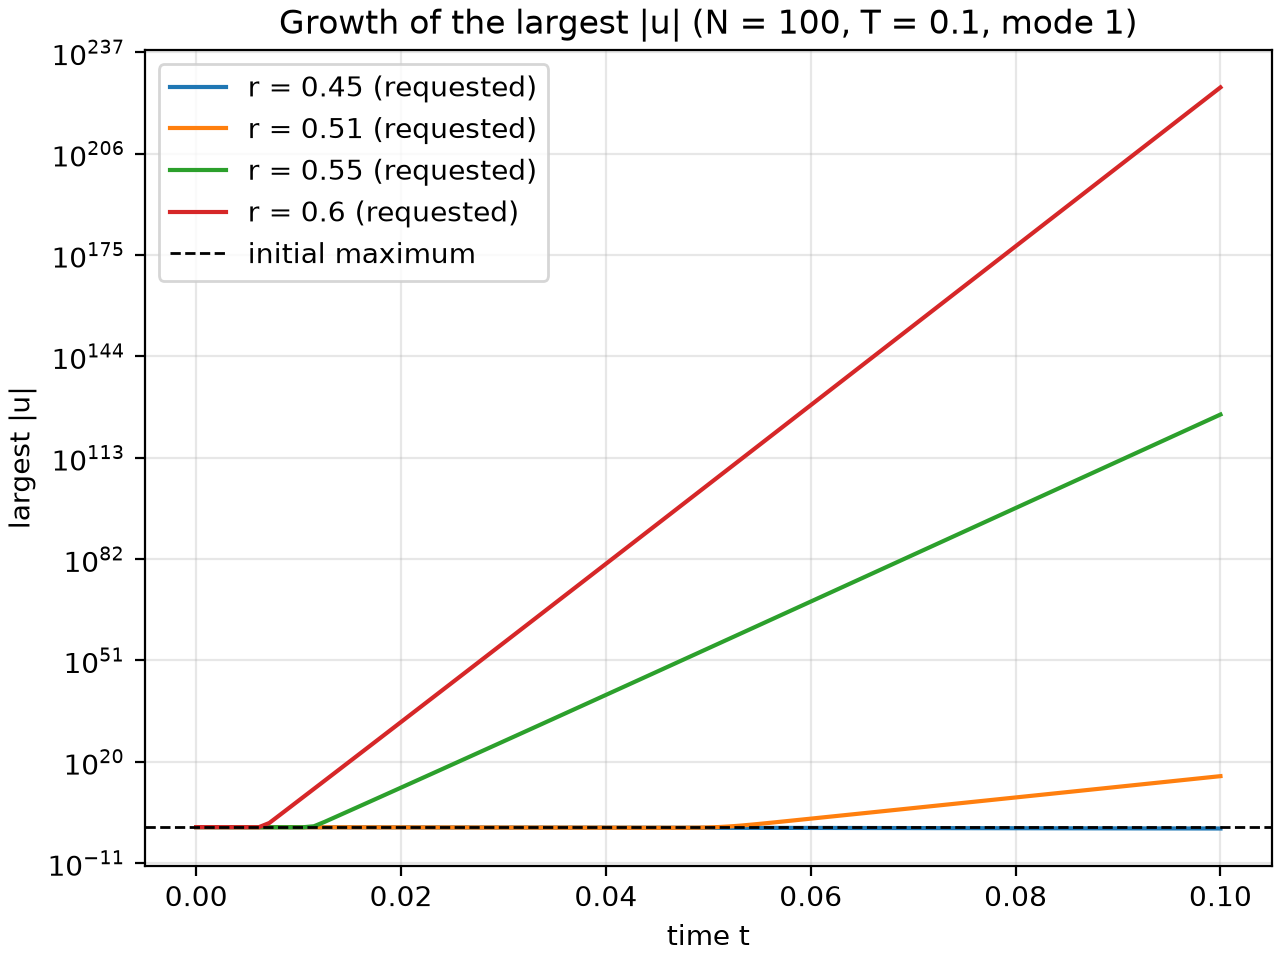
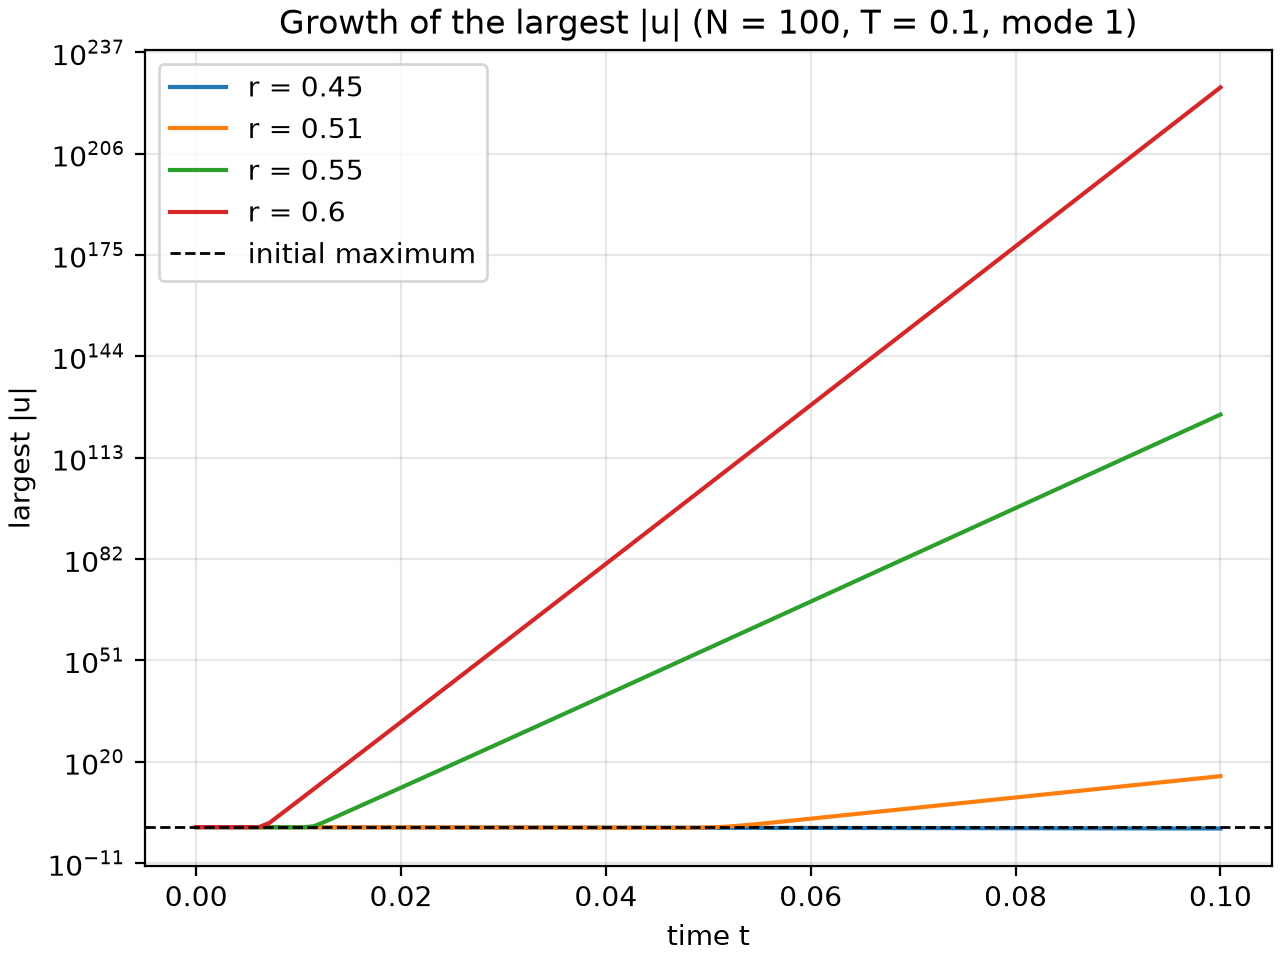
added instability plot and updated README

Changed region(s): [[0.2812, 0.0625, 0.4375, 0.25], [0.375, 0.2812, 0.4062, 0.3125]]

diff --git a/tests/test_instability_script.py b/tests/test_instability_script.py
@@ -107,9 +107,9 @@ class CheckBehaviourTest(unittest.TestCase):
 
 class LegendLabelTest(unittest.TestCase):
     def test_labels(self):
-        self.assertEqual(inst.legend_label(0.45), "r = 0.45 (requested)")
-        self.assertEqual(inst.legend_label(0.6), "r = 0.6 (requested)")
-        self.assertEqual(inst.legend_label(0.5), "r = 0.5 (requested)")
+        self.assertEqual(inst.legend_label(0.45), "r = 0.45")
+        self.assertEqual(inst.legend_label(0.6), "r = 0.6")
+        self.assertEqual(inst.legend_label(0.5), "r = 0.5")
 
 
 if __name__ == "__main__":

diff --git a/scripts/instability.py b/scripts/instability.py
@@ -51,7 +51,7 @@ def check_behaviour(r_req, peaks):
 
 
 def legend_label(r_req):
-    return f"r = {r_req:g} (requested)"
+    return f"r = {r_req:g}"
 
 
 # running the solver and drawing

diff --git a/README.md b/README.md
@@ -117,17 +117,32 @@ The script stops with a message and a non-zero exit code if the solver output do
 
 The `r` actually used is slightly below the requested one, because the step is shrunk so the run ends exactly at `T`. A request of 0.51 runs at about 0.5099, which is still unstable.
 
-Final largest `|u|` at `t = T`, from the run that produced the figure:
+### Why it goes unstable
+Any profile can be split into sine waves of different wavelengths, and the explicit scheme multiplies each wave by a fixed growth factor `g` at every step. A wave with `|g| < 1` shrinks and one with `|g| > 1` grows exponentially. The shortest wave the grid can hold, a sawtooth that alternates sign at every grid point, has `g = 1 - 4r`. Smoother waves have `g` closer to 1, so the sawtooth is the first to fail. It satisfies `|g| <= 1` exactly when `r <= 1/2`, which is the stability limit.
 
-| Requested r | Final largest `|u|` | My prediction |
-|---|---|---|
-| 0.45 | 0.372656 | _to fill in_ |
-| 0.51 | 3.82119e+15 | _to fill in_ |
-| 0.55 | 1.51741e+126 | _to fill in_ |
-| 0.6 | 1.71643e+226 | _to fill in_ |
+The initial sine is smooth and contains almost no sawtooth. The sawtooth is seeded only by rounding error, around `1e-16` for doubles. The plotted largest `|u|` is whichever part is bigger, so each unstable curve shows the smooth part decaying (from 1 towards about 0.37 at `T`), then a sharp turn upward when the growing sawtooth overtakes it. On the log axis the growing part is a straight line.
 
-### Predictions
-_Space for my predictions and how they compare with the results: to fill in._
+### When the curve turns up
+The sawtooth grows by `|1 - 4r|` per step from about `1e-16`, so it reaches size 1 after `k = ln(1e16) / ln|1 - 4r|` steps, at time `t = k * dt`. With `N = 100`, `dt = r_used * dx^2`. Worked out by hand before the run, from handwritten notes, using the `r` actually used:
+
+| Requested r | r used | Steps to turn up | Turn-up time t |
+|---|---|---|---|
+| 0.51 | 0.509944 | 944.5 | 0.048166 |
+| 0.55 | 0.549753 | 203.0 | 0.011159 |
+| 0.6 | 0.599880 | 109.6 | 0.006575 |
+
+These match the graph to within about 6%. In the CSVs the 0.51 curve falls to about 0.67 by t = 0.041 and is back at 1 by t = 0.051. The 0.55 curve is still near 0.9 at t = 0.0104 and enormous by t = 0.0208. The 0.6 curve is already about 4e8 by t = 0.0102. The turn-up moves earlier as `r` increases because `|g|` is larger.
+
+### Size of the seed
+The turn-up times above assume a seed of `1e-16`, the machine epsilon for doubles. That was an initial guess made before the runs. After the runs, the seed was fitted by working backwards from the measured final peaks, `seed = peak at T / |g|^n` with the `r` actually used. This gives about 1e-17.6 at r = 0.51, 1e-17.2 at r = 0.55 and 1e-17.1 at r = 0.6, so the effective seed is about `1e-17`, not `1e-16`. Because `1e-17` was fitted to these same runs, it reproducing the final peaks (exponents of about 16.2, 126.4 and 226.3 against measured 15.6, 126.2 and 226.2) is by construction and is not independent evidence. The fit uses only three points, so `1e-17` is an order-of-magnitude estimate. A likely reason for a seed below machine epsilon is that rounding error is spread across all the grid-point modes, so each mode, the sawtooth included, receives roughly `1e-16 / sqrt(N)`, which is about 1e-17 for `N = 100`; this explanation has not been tested.
+
+A seed of 1e-17 instead of 1e-16 delays every turn-up by a factor of 17/16, about 6%, so the table above is about 6% early. This agrees with the 0.51 curve, which is back at about 1 near t = 0.051 (1.03 in the CSV) rather than 0.048.
+
+### The stable case
+For `r = 0.45`, `g = 1 - 4r = -0.8`, so each step multiplies the sawtooth by 0.8 in size. The same formula, `ln(1e-16) / ln(0.8)`, now gives the number of steps a sawtooth of size 1 needs to shrink to rounding level: about 165 steps, or `t` of about 0.0074. This is the time for the fastest-varying part of the solution to disappear completely, which is about 7% of the run.
+
+The sawtooth has a time constant of `dt / |ln 0.8|`, about 2e-4, while the smooth sine decays with a time constant of about `1/pi^2`, roughly 0.1. The sawtooth therefore dies about 500 times faster than the smooth part. This is why diffusion smooths data and why a stable run looks clean: rounding errors in the high modes are wiped out within a few steps of appearing. The stable peak at `T` follows the exact solution, `exp(-pi^2 * alpha * T / L^2) = 0.3727` for `L = 1`, `alpha = 1`, `T = 0.1`, and the r = 0.45 run ends at 0.372656, in agreement with it.
+
 
 ## Project layout
 ```
